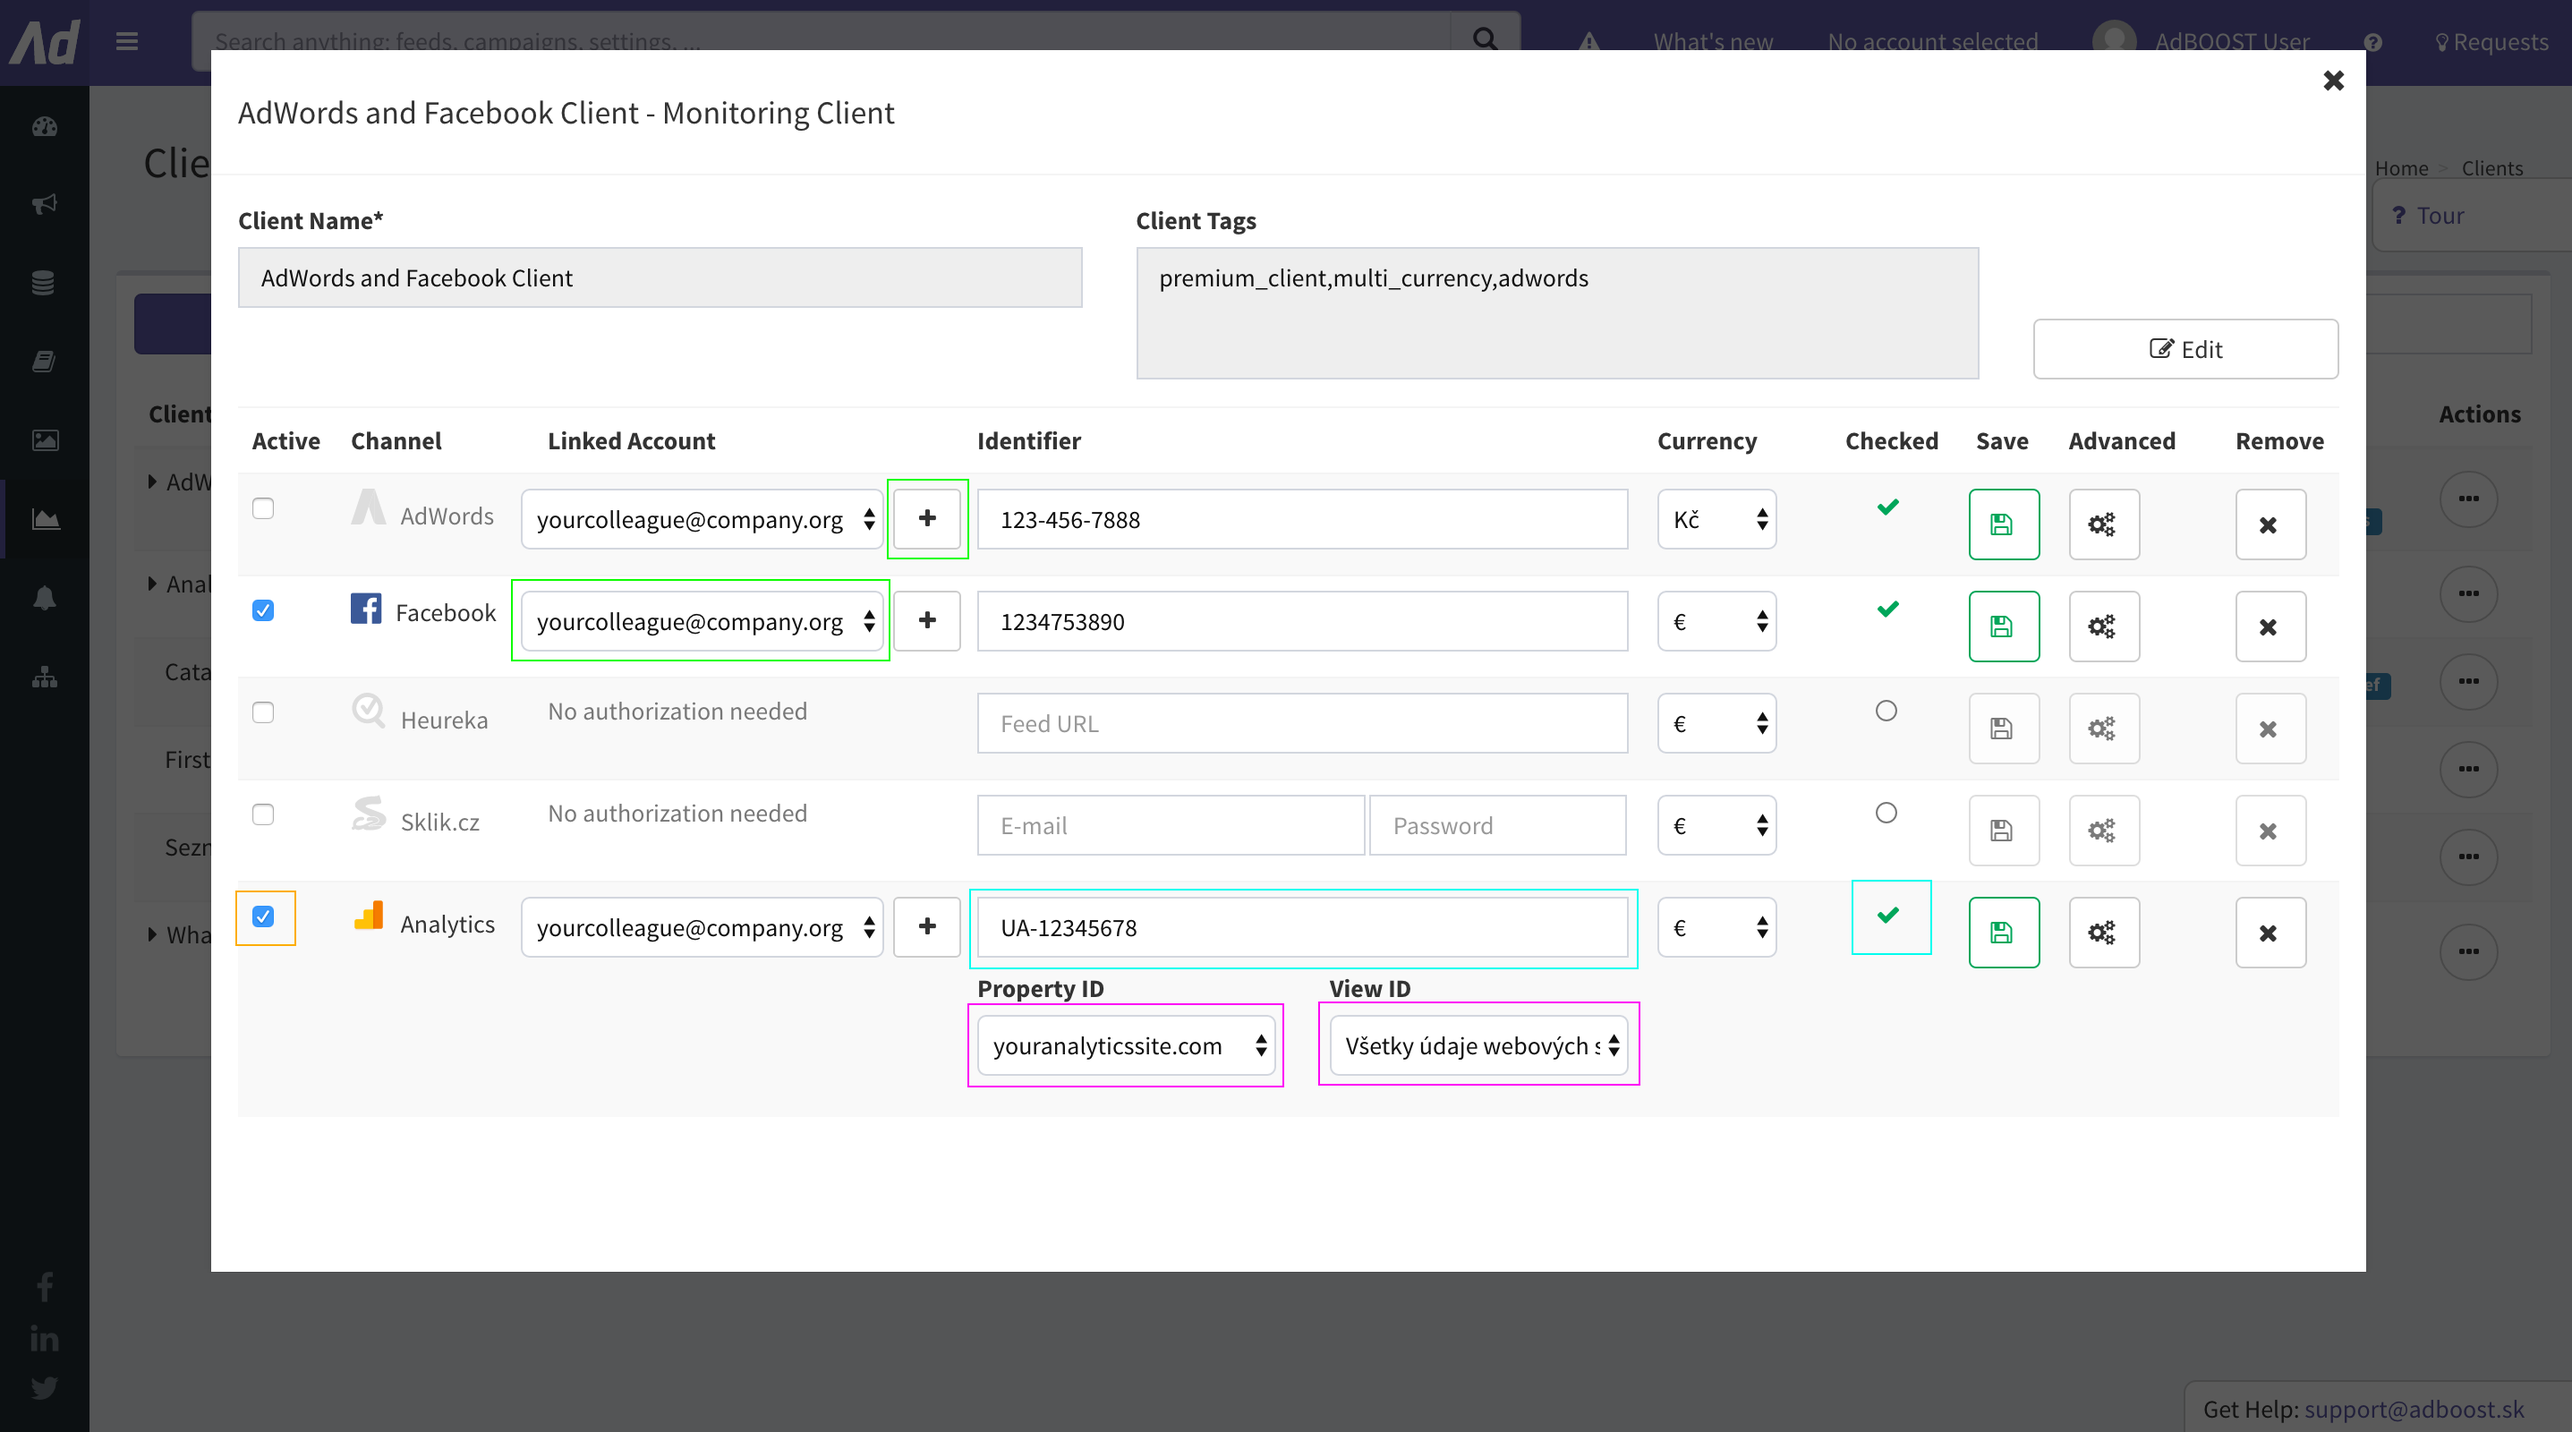
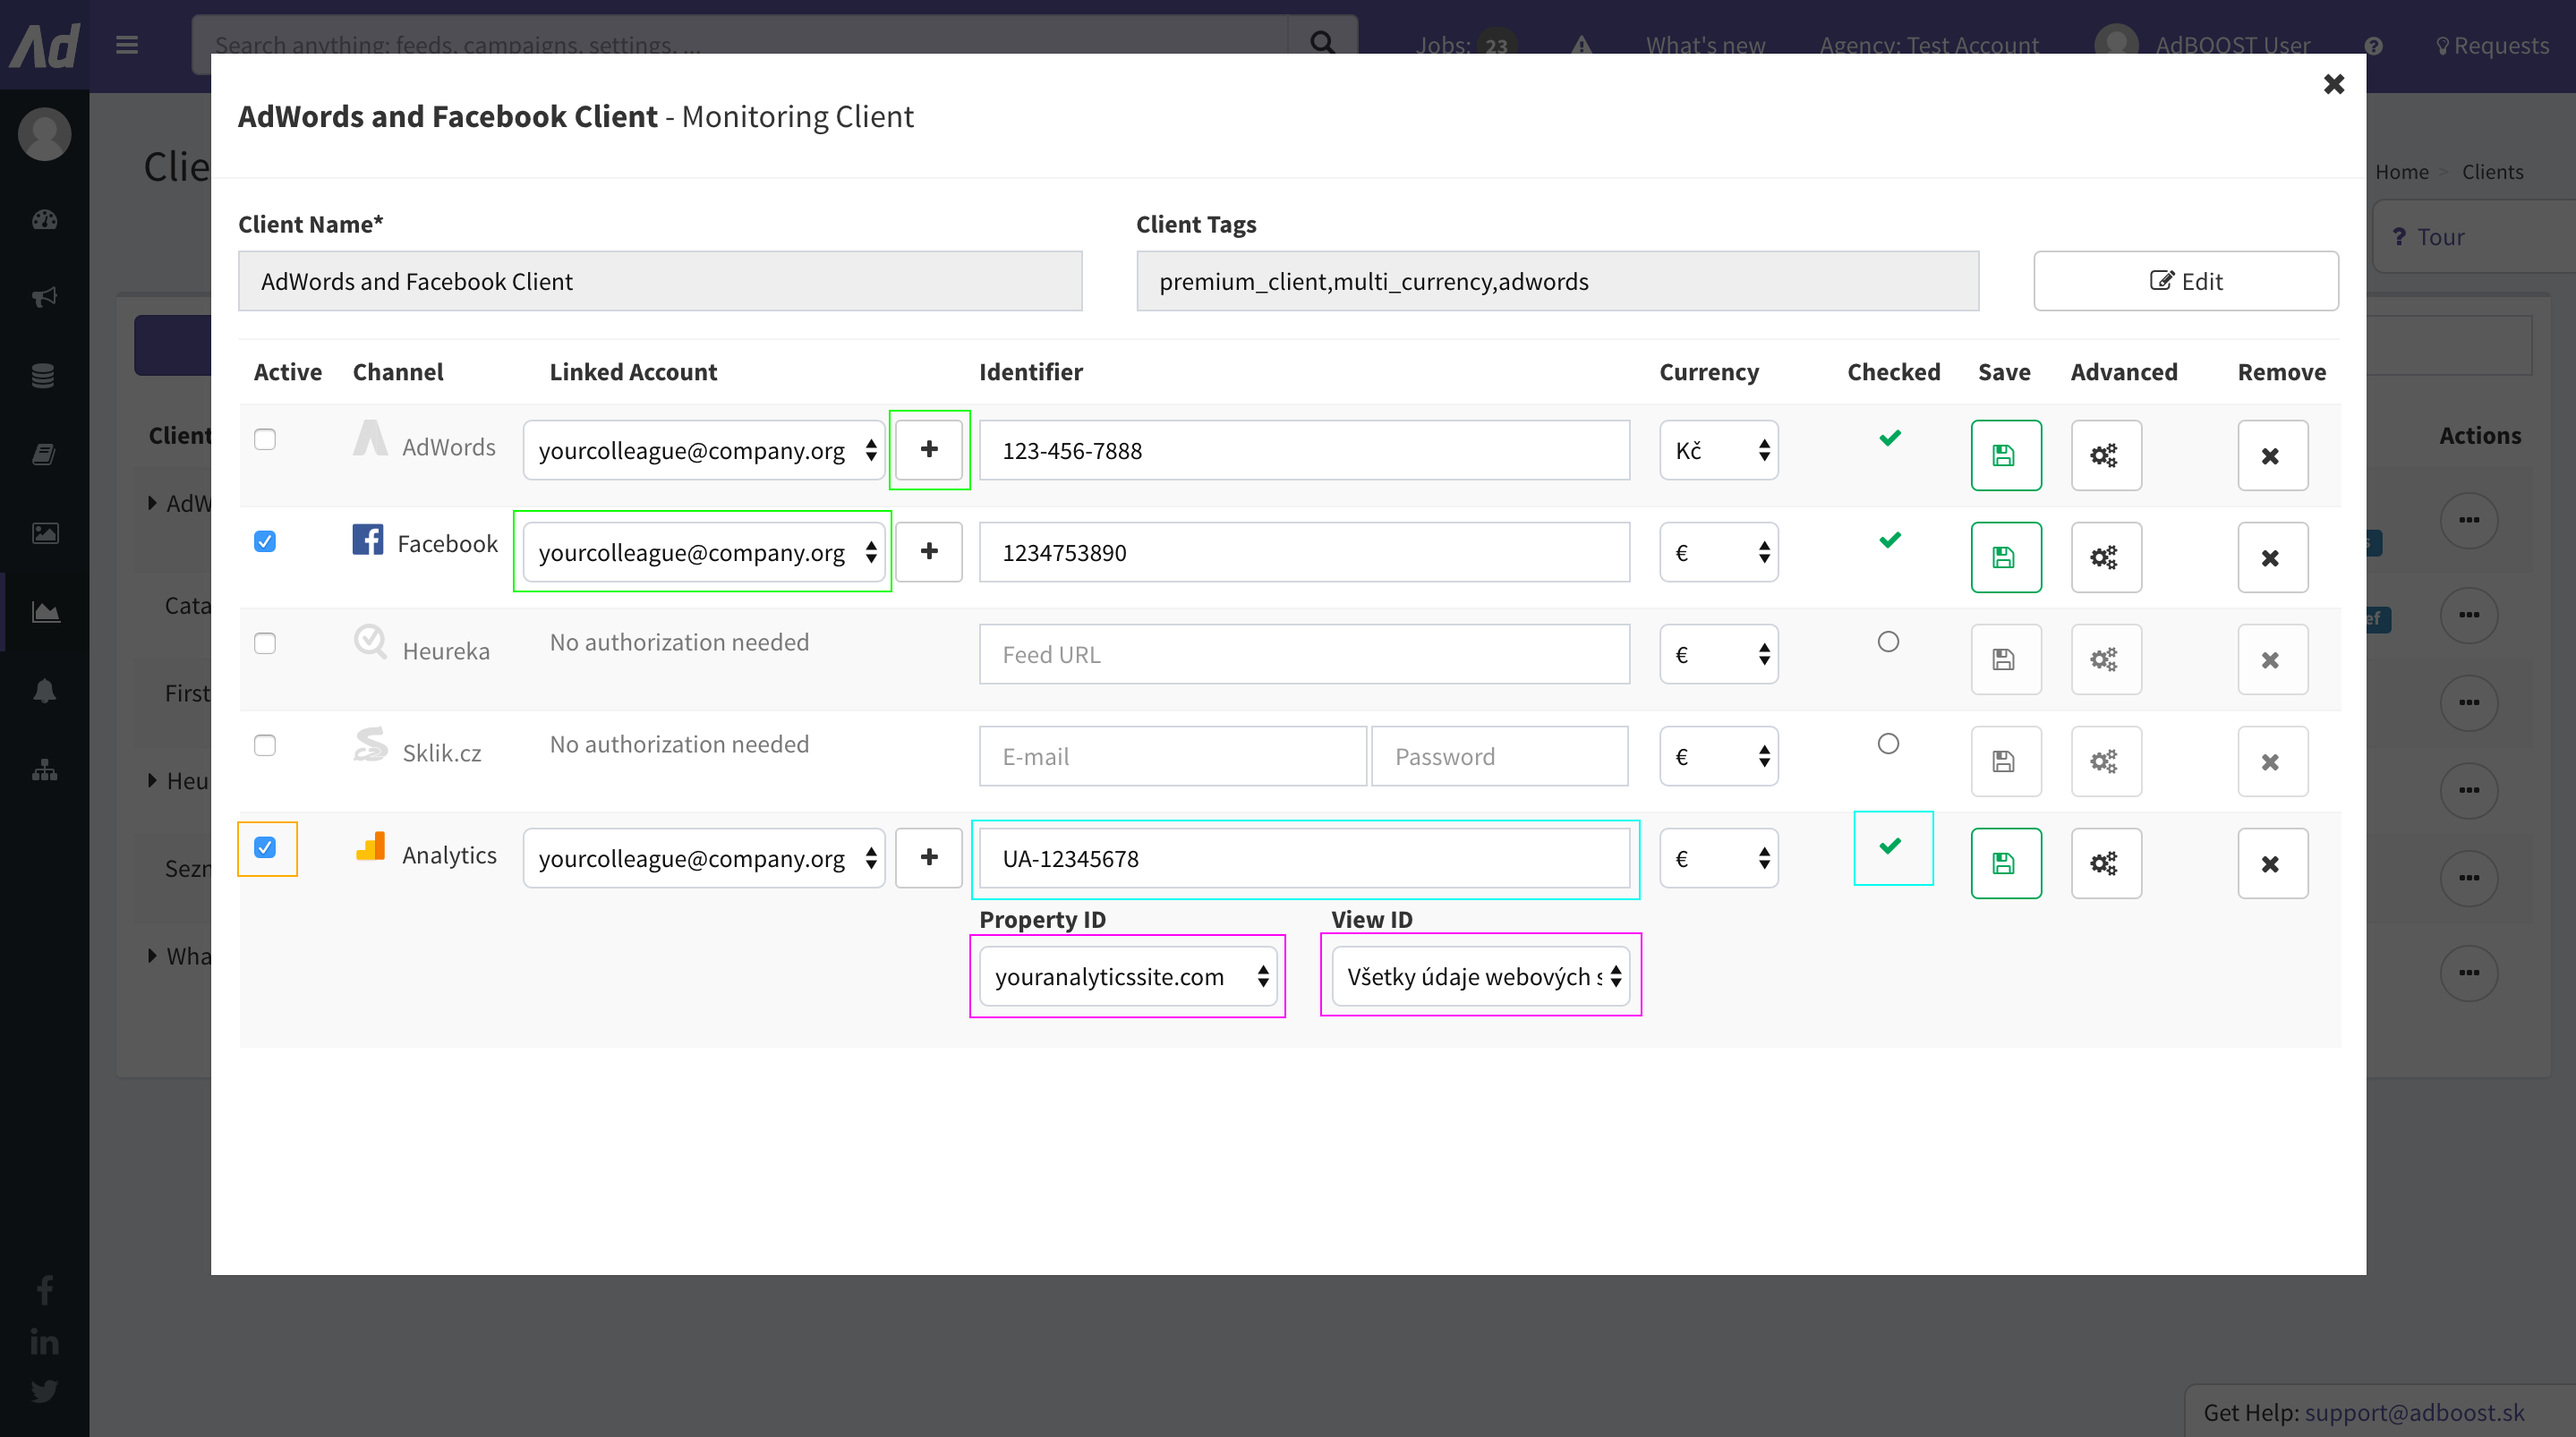
Initial version of monitoring content

diff --git a/assets/css/style.scss b/assets/css/style.scss
@@ -721,6 +721,8 @@ header h2 {
   left: 350px;
   overflow-y: scroll;
   float: right;
+  padding-right: 10px;
+  padding-bottom: 10px;
   @include calc(width, '100% - 300px');
 }
 

diff --git a/_posts/2017-02-06-monitoring-tool.md b/_posts/2017-02-06-monitoring-tool.md
@@ -4,7 +4,7 @@ title:  "Monitoring tool"
 date:   2017-02-06 09:28:14 -0600
 category: "Monitoring Tool"
 type: feature
-tags: [google, adwords, campaign, monitoring]
+tags: [google, adwords, facebook, heureka, sklik, analytics, seznam, client, account, performance, report, campaign, monitoring]
 ---
 
 # Monitoring tool
@@ -12,4 +12,45 @@ tags: [google, adwords, campaign, monitoring]
 * TOC
 {:toc}
 
-Coming soon. Thank you for your patience
+## Getting started
+
+Monitoring tool is a part of AdBOOST that can be used to watch performance of your client accounts across multiple networks. For the sake of simplicity, it consists of two screens which you can use to identify potential performance issues and avoid them before they actually arise.
+
+To explore its functionallity choose <i class="fa fa-area-chart"></i> Monitoring > <i class="fa fa-user"></i> Clients in left context menu<br/>
+
+{% include image_tag.html url="/images/monitoring/LeftMenu.png" alt="Left Menu" style="height:200px;" %}
+
+## Client Form
+
+If you do not already posses access rights to any monitoring client account, you will be presented with screen consisting of help text describing monitoring entities and client setup process.
+
+Below this help text, you can find the client form. Give name to your client (required) and tag it for better identification (optional and can be done later). Afterwards you can click the <span class="btn btn-sm btn-primary"><i class="fa fa-save"></i> Save</span> button and proceed to advertising channels setup.
+
+{% include image_tag.html url="/images/monitoring/EmptyClientForm.png" alt="Empty Client Form" style="" %}
+
+## Advertising Channels
+
+Every monitoring client account is perceived as a set of **advertising channels**. To activate a channel for your client, you need to perform following steps:
+
+- click the <span class="btn btn-sm btn-default"><i class="fa fa-link"></i> Link {NETWORK}</span> button to verify your current AdBOOST e-mail with OAUTH - **only for Google and Facebook**
+- provide your client identifier - to find out where you should look after the client identifier across multiple network interfaces, please refer to chapter [Client Identifiers](#client-identifiers)
+- set currency for your channel. Channels will be later grouped by currency for cummulative statistics reports
+- wait for icon in **Checked** column to turn into the green <i class="glyphicon glyphicon-ok"></i> mark and click the Save button. It will also turn green after successful channel save
+
+Every element in this form has a tooltip, so if you wonder what it does, just hover over it with mouse cursor.
+
+{% include image_tag.html url="/images/monitoring/ClientWithDefaultsForm.png" alt="Client With Defaults Form" style="" %}
+
+Channels setup itself can include another three specific tasks:
+
+- tick checkbox in "Active" column if you wish to PAUSE advertising **channel that has already been saved**. Afterwards, you should confirm your action with click to Save buttton. Otherwise, manipulation with this element will not have any effect
+- if you are a part of an AdBOOST Agency that already has some shared e-mail addresses that have been verified with OAUTH, you will see them listed in dropdown in **Linked Accounts** column. You can still verify your current e-mail by clicking the <i class="fa fa-plus"></i> icon. If you do not wish to do so, you can choose one of available e-mails from dropdown. Only important thing is to **choose the e-mail that is used as an owner in account with provided identifier**
+- if you decide to activate an Analytics channel, you still have to provide account identifier to check account connectivity. After its verification, you will be presented with two dropdowns:
+    1. **Property ID** - segment of your analytics account e.g. language versions of same website
+    2. **View ID** - event set within account segment defined by you. Default value equals to "All website data"
+
+{% include image_tag.html url="/images/monitoring/ClientEditModal.png" alt="Client Edit Modal" style="" %}
+
+## Client Identifiers
+
+
